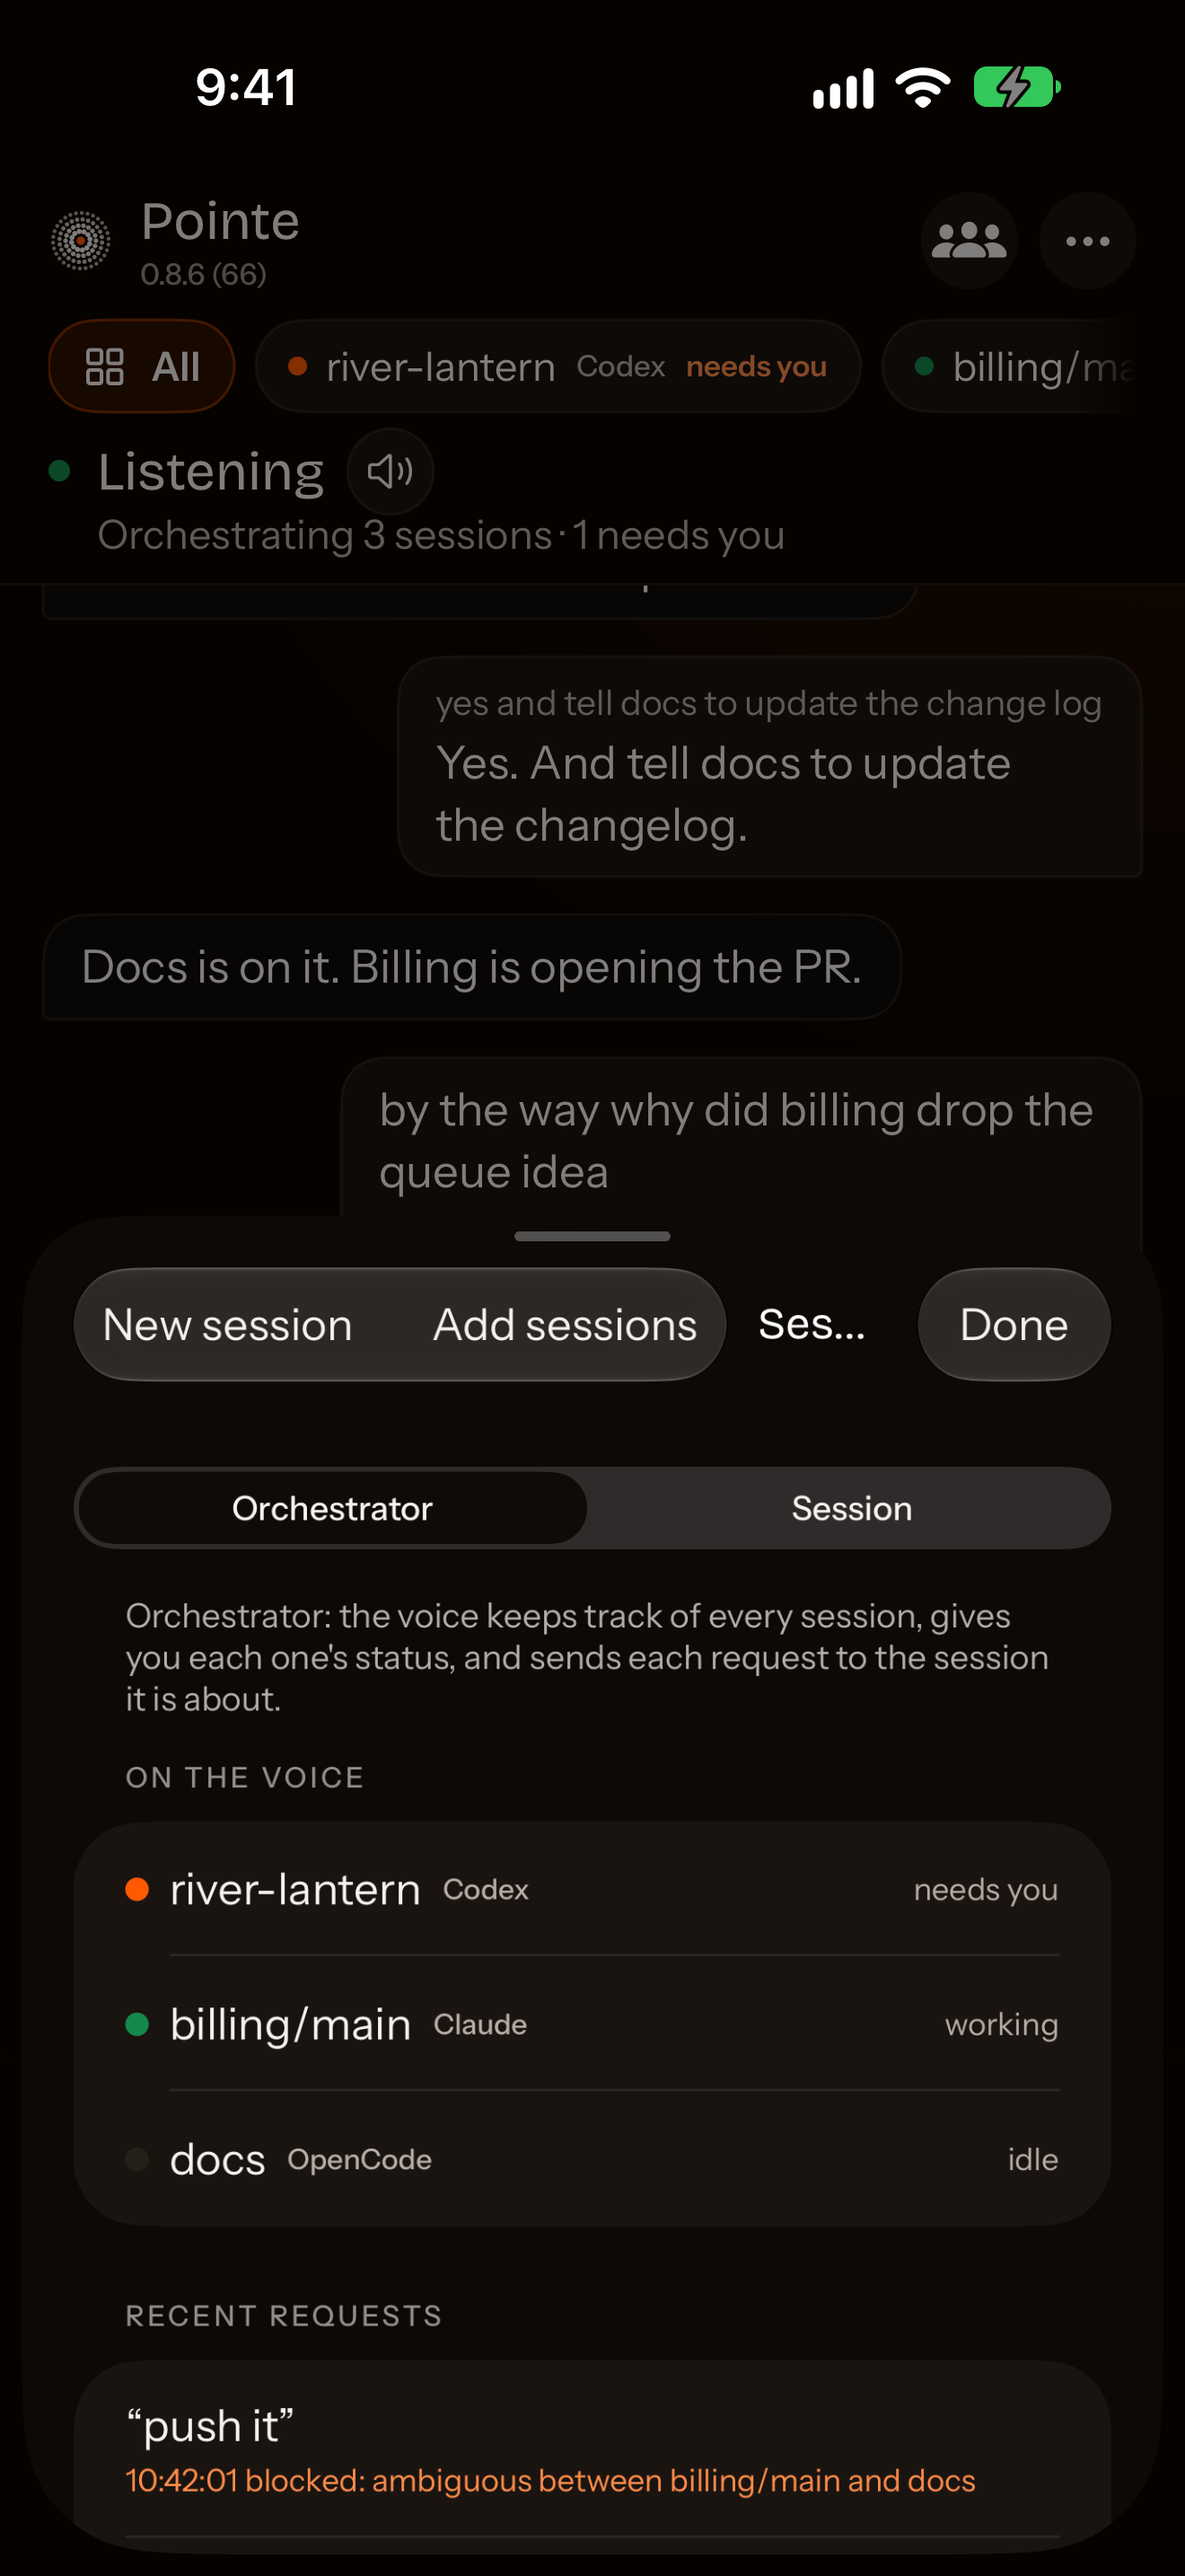
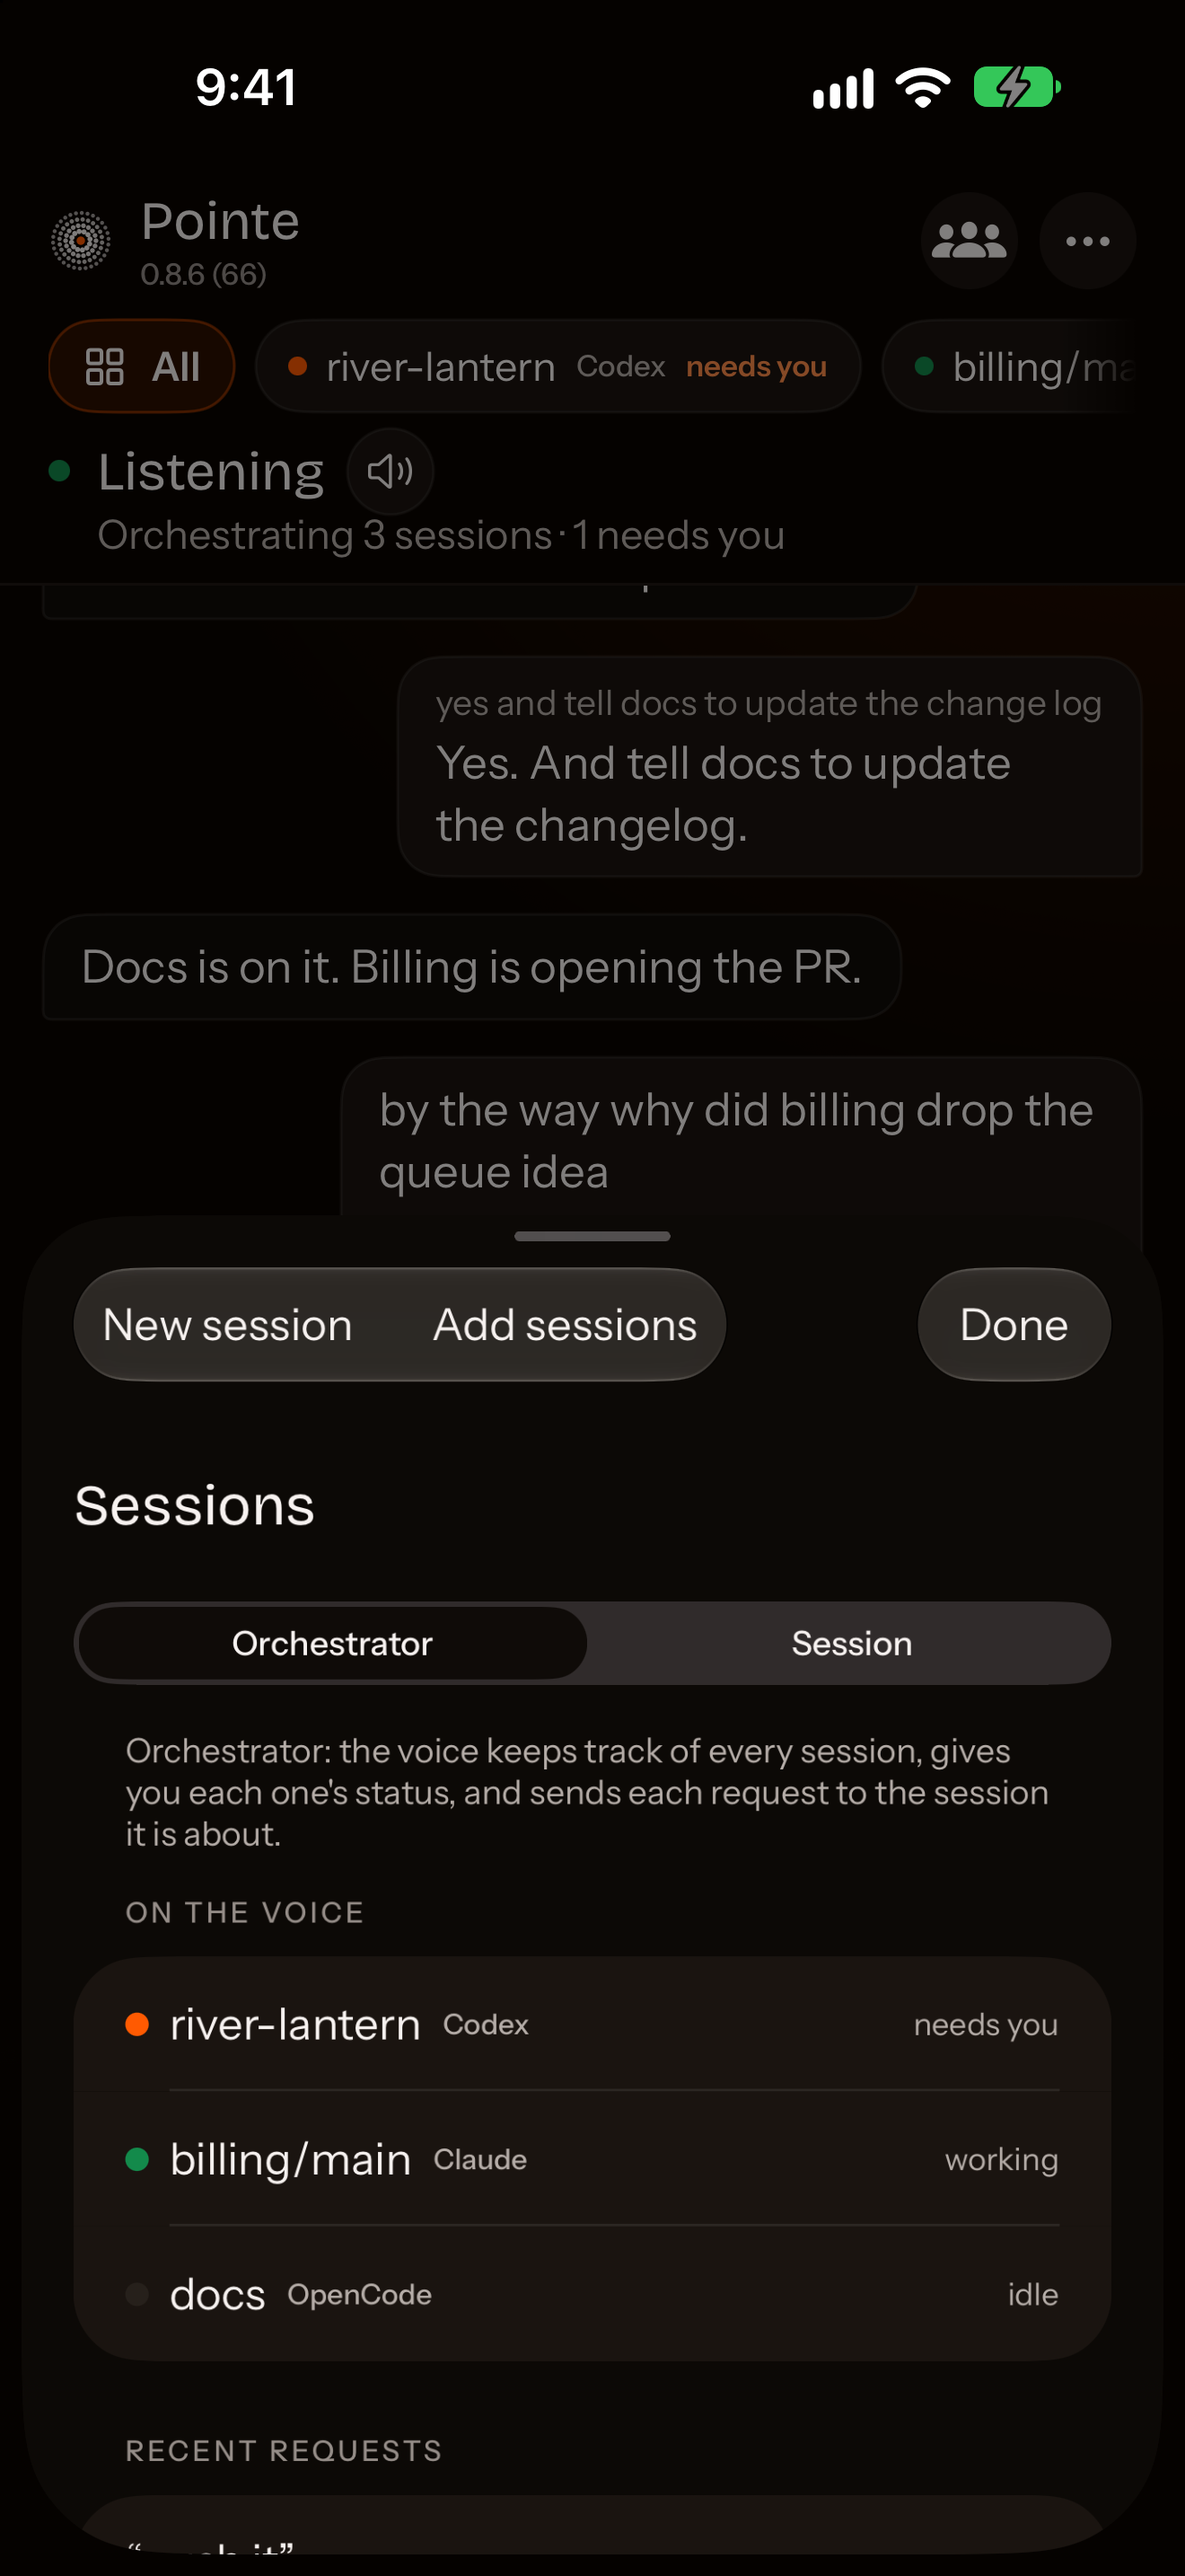
The iPhone's Sessions sheet shows its whole title: "Sessions" is the list's first row, since New session, Add sessions and Done left the bar no room and it truncated to "Ses…"
- Sessions.swift: on the iPhone the bar's title slot is empty (it keeps the name for VoiceOver and the tests'
  navigationBars["Sessions"]); the title is a row over the Orchestrator/Session switch, edge to edge with it. The
  Mac's docked column and its sheet are unchanged.
- LayoutUITests: the title is whole, under the bar, in line with the switch, and no title is left in the bar
  (CI's ios-ui job).
- docs/ios/screenshots/3-sessions.png retaken headless; docs/design/parity-matrix.md regenerated for the moved lines.

diff --git a/apps/PointeKit/Sources/PointeUI/Sessions.swift b/apps/PointeKit/Sources/PointeUI/Sessions.swift
@@ -244,8 +244,13 @@ struct SessionsSheet: View {
             list
             .scrollContentBackground(.hidden)
             .confirmDisconnect($leaving, disconnect)
-            .sheetTitle("Sessions")
+            .sheetTitle(SessionsCopy.title)
             .toolbar {
+                #if os(iOS)
+                // New session, Add sessions and Done leave the bar no room: the title truncated to "Ses…". It is the
+                // list's first row instead (`list`); the bar keeps the name for VoiceOver, with nothing drawn in its slot.
+                ToolbarItem(placement: .principal) { Color.clear.frame(width: 1, height: 1).accessibilityHidden(true) }
+                #endif
                 if starter != nil {
                     ToolbarItem(placement: .sheetLeading) {
                         Button(NewSessionCopy.title) { showNewSession = true }.accessibilityIdentifier("newSession")
@@ -278,6 +283,14 @@ struct SessionsSheet: View {
     private var list: some View {
             BrandList {
                 Section {
+                    #if os(iOS)
+                    if docked == nil {  // the sheet's title (`sheet`); the Mac's docked column has none
+                        Text(SessionsCopy.title).font(.brand(.title2))
+                            .frame(maxWidth: .infinity, alignment: .leading)
+                            .accessibilityAddTraits(.isHeader).accessibilityIdentifier("sessionsTitle")
+                            .listRowBackground(Color.clear).listRowInsets(EdgeInsets()).listRowSeparator(.hidden)
+                    }
+                    #endif
                     Segments(selection: Binding(get: { status?.mode ?? "orchestrator" }, set: setMode),
                              options: [("orchestrator", "Orchestrator"), ("session", "Session")]) {
                     Picker("Mode", selection: Binding(get: { status?.mode ?? "orchestrator" }, set: setMode)) {
@@ -424,6 +437,7 @@ struct SessionsSheet: View {
 
 
 enum SessionsCopy {
+    static let title = "Sessions"
     static let renameHelp = "A name you can say: letters, digits, spaces, dots, slashes or dashes."
 
     /// The Mac's refusal of a rename (taken, not a name voice can pick), as a sentence.

diff --git a/apps/ios/PointeUITests/LayoutUITests.swift b/apps/ios/PointeUITests/LayoutUITests.swift
@@ -27,6 +27,24 @@ final class LayoutUITests: XCTestCase {
         XCTAssertLessThanOrEqual(element.frame.maxY, window.maxY + 0.5, "\(name) is not below the screen", file: file, line: line)
     }
 
+    /// The Sessions sheet's bar holds New session, Add sessions and Done, and its title truncated there to "Ses…" (the
+    /// App Store screenshot showed it). The title is the list's first row: whole, under the bar, in line with the switch.
+    func testTheSessionsSheetTitleIsWholeOnItsOwnRow() {
+        let app = launch("sessions")
+        let title = app.descendants(matching: .any)["sessionsTitle"].firstMatch
+        XCTAssertTrue(title.waitForExistence(timeout: 15), "the sheet's title row")
+        XCTAssertEqual(title.label, "Sessions")
+        onScreen(app, title, "the title")
+        let bar = app.navigationBars["Sessions"]
+        XCTAssertTrue(bar.exists, "the bar keeps the sheet's name")
+        XCTAssertGreaterThanOrEqual(title.frame.minY, bar.frame.maxY - 0.5, "the title is under the bar, not squeezed in it")
+        XCTAssertEqual(bar.staticTexts.matching(NSPredicate(format: "label BEGINSWITH %@", "Ses")).count, 0, "no title in the bar")
+        let modes = app.descendants(matching: .any)["modePicker"].firstMatch
+        XCTAssertTrue(modes.exists)
+        XCTAssertEqual(title.frame.minX, modes.frame.minX, accuracy: 1, "in line with the Orchestrator/Session switch")
+        XCTAssertLessThanOrEqual(title.frame.maxY, modes.frame.minY + 0.5, "over the switch")
+    }
+
     /// The bug this file started with: with the keyboard up, the type bar sat on the newest bubble.
     func testTheTypeBarAndTheKeyboardNeverCoverTheNewestLine() {
         let app = launch("typing")

diff --git a/docs/design/parity-matrix.md b/docs/design/parity-matrix.md
@@ -39,8 +39,8 @@ Before this work (a pre-release build (2026-11-21)), by the same scan:
 | Clean up my words <br>`call.polish` | yes `ui.html:1654` | yes `apps/PointeKit/Sources/PointeUI/CallSettings.swift:174` | yes `apps/PointeKit/Sources/PointeUI/CallSettings.swift:174` |
 | The daemon's last problem (a refused key, a vendor down) on screen <br>`call.problem` | yes `ui.html:1649` | yes `apps/PointeKit/Sources/PointeUI/CallView.swift:438` | yes `apps/PointeKit/Sources/PointeUI/CallView.swift:438` |
 | Hebrew lines read right to left <br>`call.rtl` | yes `ui.html:1215` | yes `apps/PointeKit/Sources/PointeUI/TextDirection.swift:6` | yes `apps/PointeKit/Sources/PointeUI/TextDirection.swift:6` |
-| How full the voice model's context is <br>`call.context` | yes `ui.html:1187` | yes `apps/PointeKit/Sources/PointeUI/Sessions.swift:409` | yes `apps/PointeKit/Sources/PointeUI/Sessions.swift:409` |
-| Recent requests and where each went <br>`call.recent` | yes `ui.html:1182` | yes `apps/PointeKit/Sources/PointeUI/Sessions.swift:330` | yes `apps/PointeKit/Sources/PointeUI/Sessions.swift:330` |
+| How full the voice model's context is <br>`call.context` | yes `ui.html:1187` | yes `apps/PointeKit/Sources/PointeUI/Sessions.swift:422` | yes `apps/PointeKit/Sources/PointeUI/Sessions.swift:422` |
+| Recent requests and where each went <br>`call.recent` | yes `ui.html:1182` | yes `apps/PointeKit/Sources/PointeUI/Sessions.swift:343` | yes `apps/PointeKit/Sources/PointeUI/Sessions.swift:343` |
 | A line while the Mac keeps itself awake for a call from another device <br>`call.keep-awake` | n/a | yes `apps/PointeKit/Sources/PointeUI/CallView.swift:554` | n/a |
 
 ## Push to talk and turn taking
@@ -68,7 +68,7 @@ Before this work (a pre-release build (2026-11-21)), by the same scan:
 | Session mode holds the other sessions' news: a quiet count, the list, Tell me <br>`sessions.held` | yes `ui.html:1648` | yes `apps/PointeKit/Sources/PointeUI/Held.swift:62` | yes `apps/PointeKit/Sources/PointeUI/Held.swift:62` |
 | Rename a session <br>`sessions.rename` | yes `ui.html:3122` | yes `apps/PointeKit/Sources/PointeUI/API.swift:559` | yes `apps/PointeKit/Sources/PointeUI/API.swift:559` |
 | Disconnect a session from the voice <br>`sessions.disconnect` | yes `ui.html:3408` | yes `apps/PointeKit/Sources/PointeUI/API.swift:556` | yes `apps/PointeKit/Sources/PointeUI/API.swift:556` |
-| Show only one machine's sessions <br>`sessions.filter` | yes `ui.html:1171` | yes `apps/PointeKit/Sources/PointeUI/Sessions.swift:588` | yes `apps/PointeKit/Sources/PointeUI/Sessions.swift:588` |
+| Show only one machine's sessions <br>`sessions.filter` | yes `ui.html:1171` | yes `apps/PointeKit/Sources/PointeUI/Sessions.swift:602` | yes `apps/PointeKit/Sources/PointeUI/Sessions.swift:602` |
 | Start a new session: agent, folder, machine, name, first prompt <br>`sessions.new` | yes `ui.html:1574` | yes `apps/PointeKit/Sources/PointeUI/NewSession.swift:12` | yes `apps/PointeKit/Sources/PointeUI/NewSession.swift:12` |
 | The read-back card of a session asked for by voice: Start or Cancel <br>`sessions.new.readback` | yes `ui.html:1737` | yes `apps/PointeKit/Sources/PointeUI/NewSession.swift:153` | yes `apps/PointeKit/Sources/PointeUI/NewSession.swift:153` |
 | Add sessions already open, or reopen one from this week: search, by machine and agent <br>`sessions.add` | yes `ui.html:1588` | yes `apps/PointeKit/Sources/PointeUI/AddSessions.swift:14` | yes `apps/PointeKit/Sources/PointeUI/AddSessions.swift:14` |
